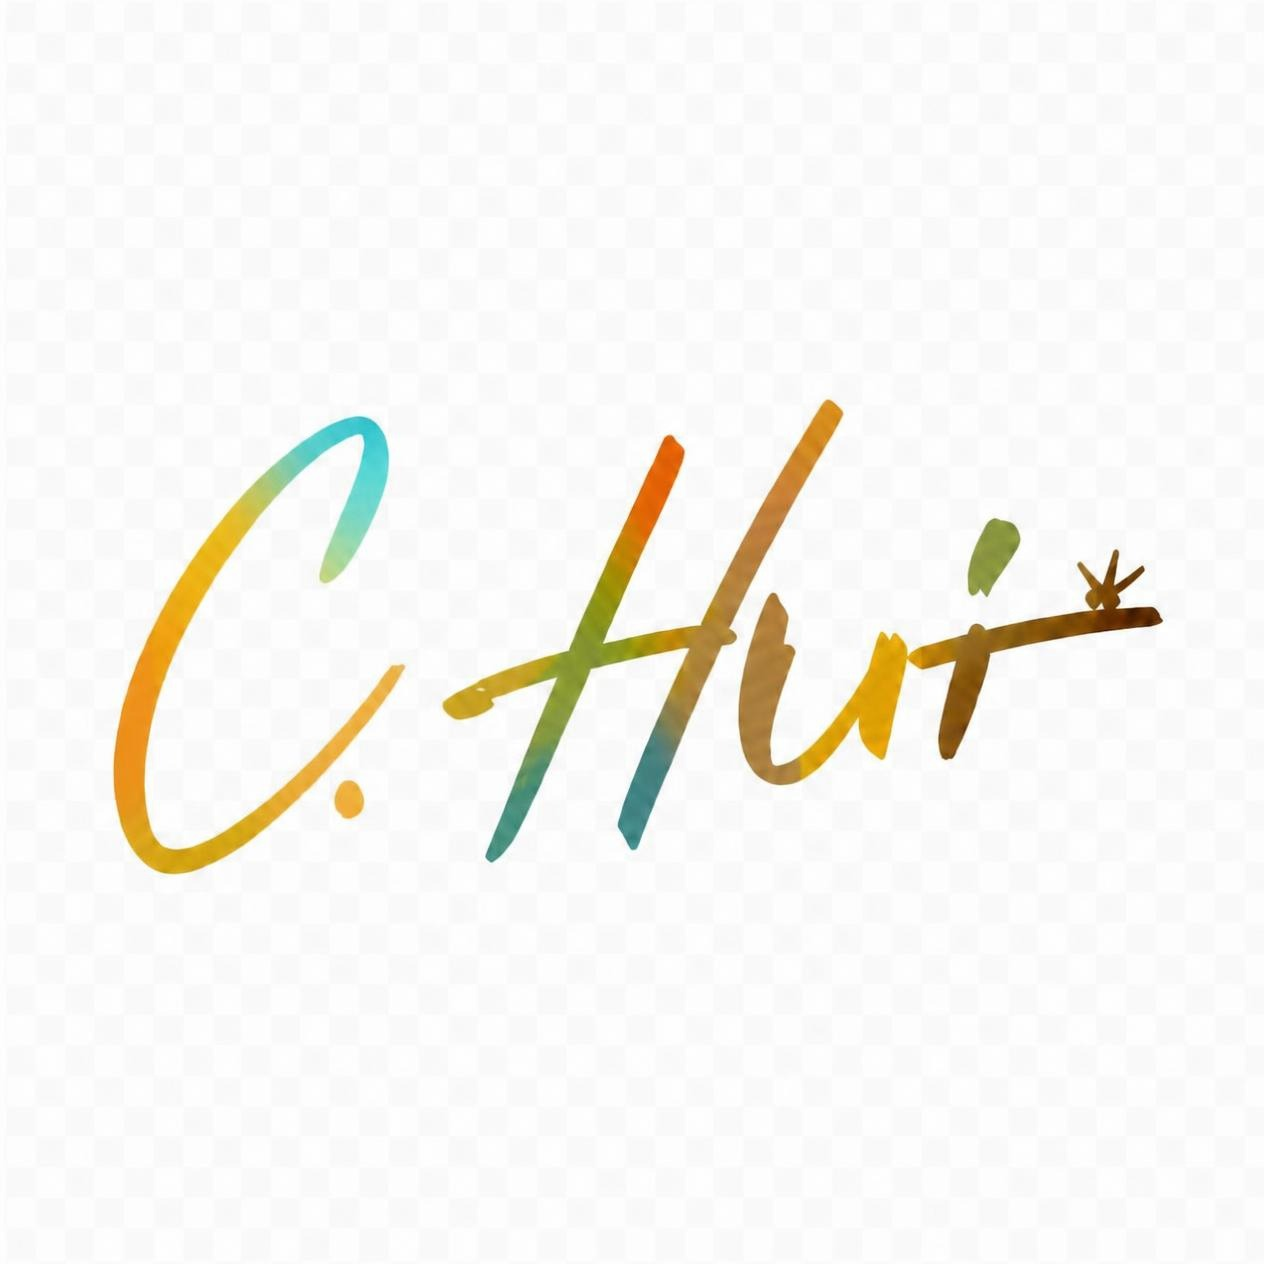
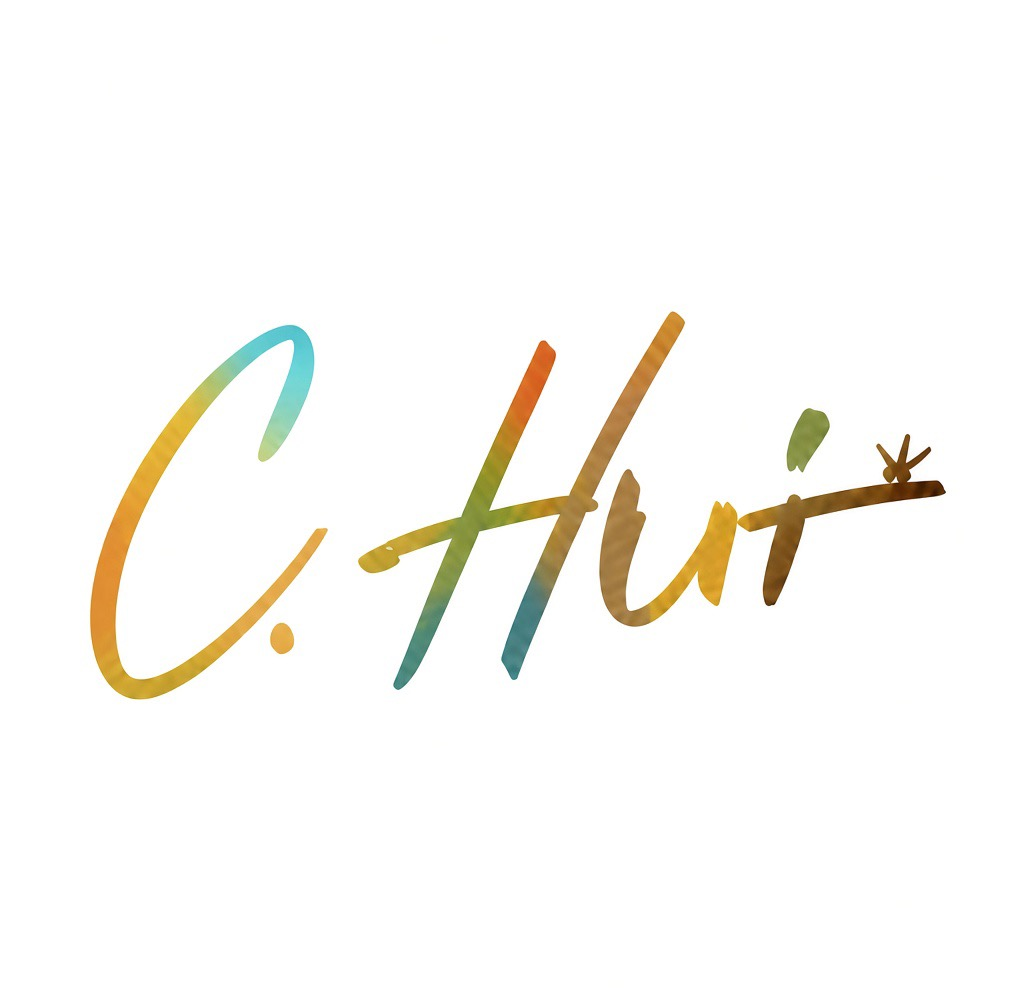
Update watermark and white loading screen

diff --git a/src/styles.css b/src/styles.css
@@ -63,7 +63,7 @@
 
 :root {
   --radius: 0.45rem;
-  --background: oklch(0.985 0.003 220);
+  --background: oklch(1 0 0);
   --foreground: oklch(0.26 0.013 220);
   --card: oklch(1 0 0);
   --card-foreground: oklch(0.129 0.042 264.695);
@@ -82,7 +82,7 @@
   --border: oklch(0.9 0.008 220);
   --input: oklch(0.9 0.008 220);
   --ring: oklch(0.58 0.12 165);
-  --canvas: oklch(0.963 0.009 220);
+  --canvas: oklch(1 0 0);
   --electron: oklch(0.69 0.15 240);
   --hole: oklch(0.69 0.17 32);
   --photon: oklch(0.82 0.17 86);
@@ -304,14 +304,10 @@
   margin: 0.4rem 0;
 }
 
-.loading-screen { position: fixed; inset: 0; z-index: 100; display: flex; flex-direction: column; align-items: center; justify-content: center; gap: 26px; background: var(--canvas); transition: opacity 0.5s ease; }
-.loading-screen.leaving { opacity: 0; pointer-events: none; }
+.loading-screen { position: fixed; inset: 0; z-index: 100; display: flex; flex-direction: column; align-items: center; justify-content: center; background: #fff; }
 .signature-write { position: relative; width: min(340px, 72vw); }
-.signature-write img { display: block; width: 100%; height: auto; -webkit-mask-image: linear-gradient(90deg, #000 0 42%, transparent 58% 100%); mask-image: linear-gradient(90deg, #000 0 42%, transparent 58% 100%); -webkit-mask-size: 260% 100%; mask-size: 260% 100%; -webkit-mask-position: 100% 0; mask-position: 100% 0; animation: signature-reveal var(--write-ms, 2600ms) cubic-bezier(0.4, 0, 0.3, 1) forwards; }
-@keyframes signature-reveal { from { -webkit-mask-position: 100% 0; mask-position: 100% 0; } to { -webkit-mask-position: 0% 0; mask-position: 0% 0; } }
-.signature-pen { position: absolute; top: 46%; left: 0; width: 14px; height: 14px; margin: -7px 0 0 -7px; border-radius: 50%; background: var(--perovskite); box-shadow: 0 0 14px 4px var(--perovskite); animation: pen-travel var(--write-ms, 2600ms) cubic-bezier(0.4, 0, 0.3, 1) forwards; }
-@keyframes pen-travel { 0% { left: 0; opacity: 0; } 6% { opacity: 1; } 92% { opacity: 1; } 100% { left: 100%; opacity: 0; } }
+.signature-write img { display: block; width: 100%; height: auto; }
 .header-title { display: flex; align-items: center; gap: 14px; }
 .header-watermark { width: 72px; height: auto; }
 .author-watermark { width: 110px; height: auto; object-fit: contain; flex-shrink: 0; }
-@media (prefers-reduced-motion: reduce) { .signature-write img { animation: none; -webkit-mask-image: none; mask-image: none; } .signature-pen { display: none; } }
+@media (prefers-reduced-motion: reduce) { .signature-write img { animation: none; } }

diff --git a/src/components/LoadingScreen.tsx b/src/components/LoadingScreen.tsx
@@ -4,21 +4,18 @@ import watermark from "@/assets/chui-watermark.png.asset.json";
 
 const WRITE_MS = 2600;
 const HOLD_MS = 900;
-const FADE_MS = 500;
 
 export function LoadingScreen() {
-  const [phase, setPhase] = useState<"write" | "fade" | "done">("write");
+  const [phase, setPhase] = useState<"write" | "done">("write");
   useEffect(() => {
-    const fade = window.setTimeout(() => setPhase("fade"), WRITE_MS + HOLD_MS);
-    const done = window.setTimeout(() => setPhase("done"), WRITE_MS + HOLD_MS + FADE_MS);
-    return () => { window.clearTimeout(fade); window.clearTimeout(done); };
+    const done = window.setTimeout(() => setPhase("done"), WRITE_MS + HOLD_MS);
+    return () => window.clearTimeout(done);
   }, []);
   if (phase === "done") return null;
   return (
-    <div className={`loading-screen${phase === "fade" ? " leaving" : ""}`} role="status" aria-label="Loading Solar Cell Lab">
-      <div className="signature-write" style={{ "--write-ms": `${WRITE_MS}ms` } as React.CSSProperties}>
+    <div className="loading-screen" role="status" aria-label="Loading Solar Cell Lab">
+      <div className="signature-write">
         <img src={watermark.url} alt="C. Hui" />
-        <span className="signature-pen" aria-hidden="true" />
       </div>
     </div>
   );
